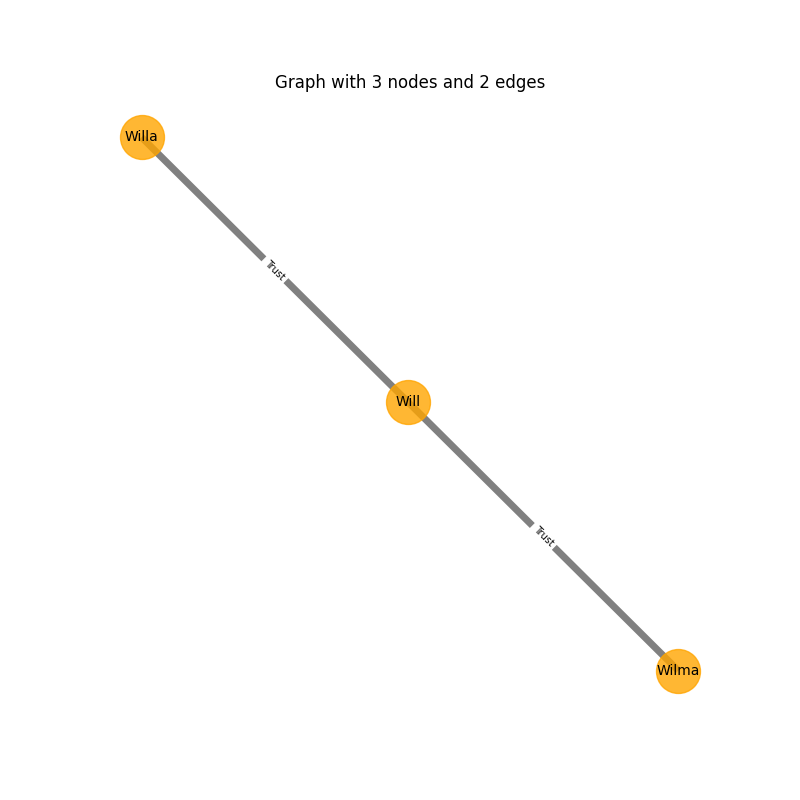
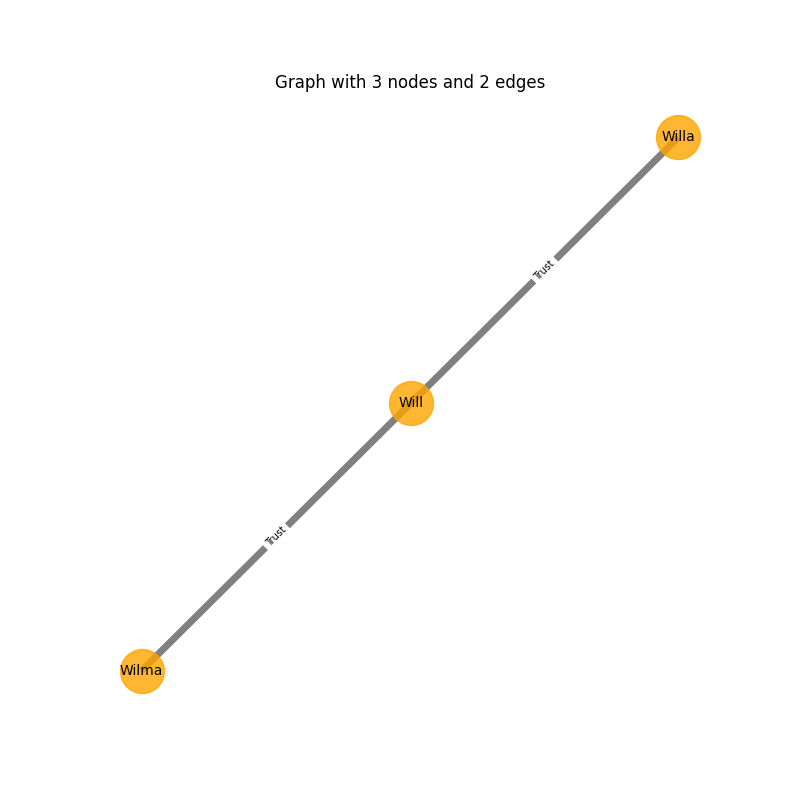
minor sub-graph layout fixes

diff --git a/OrgLinkAnalysis/main.py b/OrgLinkAnalysis/main.py
@@ -66,13 +66,13 @@ def get_subgraph_from_link(main_graph, relationship, is_directed):
                       data.get('relationship') == relationship}
 
     # Create the subgraph
-    subgraph = main_graph.edge_subgraph(subgraph_edges)
+    sub_graph = main_graph.edge_subgraph(subgraph_edges)
 
     # Return as Graph or DiGraph (simple undirected or directed graph)
     if is_directed:
-        return graph.DiGraph(subgraph)
+        return graph.DiGraph(sub_graph)
     else:
-        return graph.Graph(subgraph)
+        return graph.Graph(sub_graph)
 
 
 # fetch a dictionary of sub-graphs for each link:

diff --git a/OrgLinkAnalysis/graph_viz.py b/OrgLinkAnalysis/graph_viz.py
@@ -104,6 +104,7 @@ def build_static_network(graph, simple_graph):
         # Draw each edge separately
         graph.draw_networkx_edges(simple_graph, pos, edgelist=[(u, v)],
                                   style="solid", edge_color='gray',
+                                  node_size=round_node_size,
                                   width=data.get('weight', 1.0))
 
         graph.draw_networkx_edge_labels(simple_graph, pos, edge_labels=edge_label,
